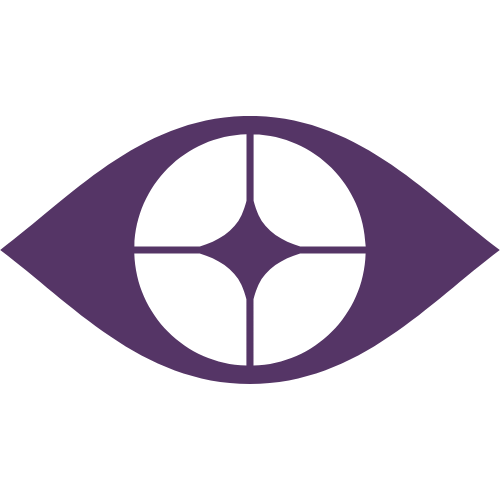
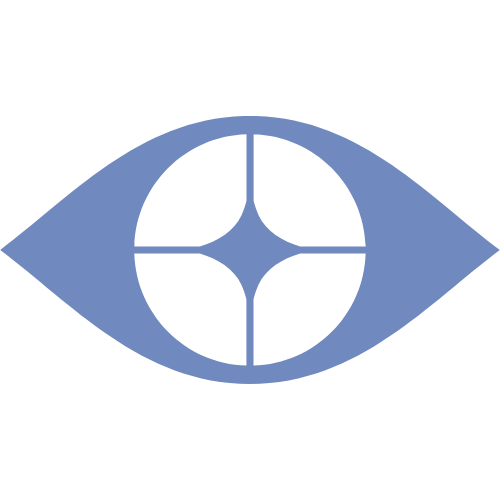
Change colors

Changed region(s): [[0.0, 0.21, 1.0, 0.78]]

diff --git a/my-portfolio/styles/NavBar.scss b/my-portfolio/styles/NavBar.scss
@@ -1,4 +1,10 @@
 .navbar {
   font-family: "Parkinsans", sans-serif;
-  background-color: #f49e7e;
+  background-color: #d8c5da;
+
+  img {
+    width: 5em;
+    height: 4em; // Let height adjust based on width
+    aspect-ratio: 1 / 2;
+  }
 }

diff --git a/my-portfolio/styles/About.scss b/my-portfolio/styles/About.scss
@@ -3,7 +3,7 @@
   padding: 1em;
   display: flex;
   flex-direction: row;
-  background-color: #fd883d;
+  background-color: #eb7d52;
   font-size: 1.7em;
   align-items: center;
   justify-content: center; /* Center content horizontally */

diff --git a/my-portfolio/styles/App.scss b/my-portfolio/styles/App.scss
@@ -4,7 +4,7 @@ body {
   width: 100vw; /* Ensure full viewport width */
   overflow-x: hidden;
   font-family: "Parkinsans", sans-serif;
-  background-color: #faefe6;
+  background-color: #fdf4ed;
   color: #282a29;
 
   h2 {

diff --git a/my-portfolio/styles/Articles.scss b/my-portfolio/styles/Articles.scss
@@ -1,6 +1,6 @@
 #writing {
   height: 100vh;
-  background-color: #553566;
+  background-color: #637fb9;
   padding: 1em 3em;
   display: flex;
   flex-direction: column;
